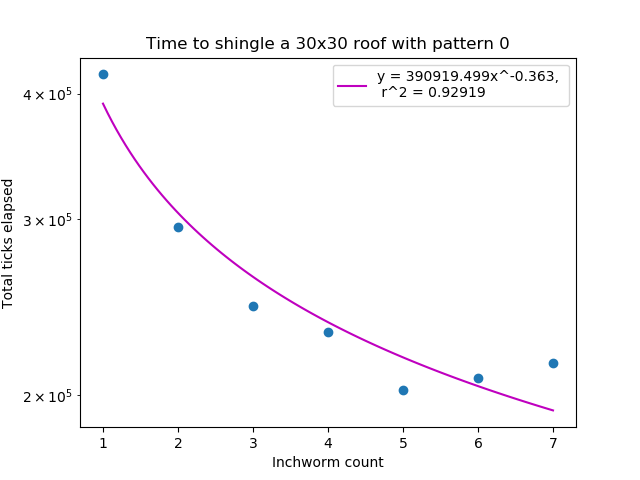
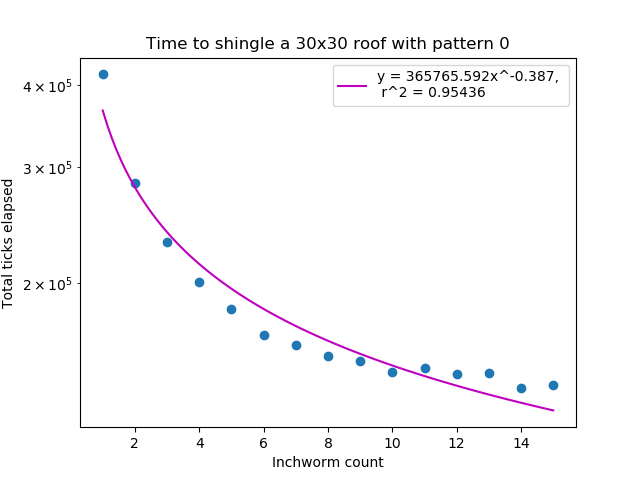
really good graphs

diff --git a/inchworm_algo/src/inchworm.py b/inchworm_algo/src/inchworm.py
@@ -429,8 +429,13 @@ class Inchworm():
 
         # update the "roof" to include shingle, if the shingle is in a place
         self.set_shingle_state(shingle_coord[0], shingle_coord[1], shingle.shingle_status) 
+        rospy.logwarn(f"inchworm {self.id} reading {shingle.most_recent_target} -------------------------------")
         if shingle.most_recent_target > self.most_recent_target:
+            rospy.logwarn(f"inchworm {self.id} found a recent target of {shingle.most_recent_target}, which is less that {self.most_recent_target}")
             self.most_recent_target = shingle.most_recent_target
+            for i in range(0, self.most_recent_target):
+                self.set_shingle_state(self.shingle_order[i][0], self.shingle_order[i][1], ShingleStatus.INSTALLED)
+            # self.rebuild_roof()
         if shingle.shingle_status == ShingleStatus.INSTALLED:
             neighbor_status = shingle.get_neighbor_locations_and_status()
             i = 0
@@ -696,13 +701,13 @@ class Inchworm():
             val = self.get_shingle_state(coord[0], coord[1])
             # rospy.loginfo(val)
             if (val != ShingleStatus.INSTALLED and i - 1 > -1 and 
-                ((self.get_shingle_state(self.shingle_order[i - 1][0], self.shingle_order[i - 1][1]) == ShingleStatus.INSTALLED) or i == self.most_recent_target)):
+                ((self.get_shingle_state(self.shingle_order[i - 1][0], self.shingle_order[i - 1][1]) == ShingleStatus.INSTALLED))):
                 rospy.loginfo(f"inchworm {self.id} has possible target {coord}")
                 if self.placed_shingle_is_valid(coord) == True:
                     x_coord = coord[0]
                     y_coord = coord[1]
-                #     if self.most_recent_target < i:
-                #         self.most_recent_target = i
+                    if self.most_recent_target < i:
+                        self.most_recent_target = i
                 # else:
                 #     self.set_shingle_state(coord[0], coord[1], ShingleStatus.INSTALLED)
                 #     self.rebuild_roof()

diff --git a/inchworm_algo/src/test_algo_sim.py b/inchworm_algo/src/test_algo_sim.py
@@ -46,7 +46,7 @@ def main():
   WIDTH = int(sys.argv[2])
   HEIGHT = int(sys.argv[3])
 
-  INCHWORM_COUNTS = [i+1 for i in range(int(WIDTH/4))]
+  INCHWORM_COUNTS = [i+1 for i in range(int(WIDTH/2))]
 
   tick_sub = rospy.Subscriber("/algo/ticks_elapsed", Int32MultiArray, tickCB)
 
@@ -60,17 +60,17 @@ def main():
 
 
   batch_size = 9
-  if int(int(WIDTH)/4) < batch_size:
-    batch_size = int(int(WIDTH)/4)
+  if int(int(WIDTH)/2) < batch_size:
+    batch_size = int(int(WIDTH)/2)
 
 
   count = 1
-  while len(durations) != int(int(WIDTH)/4) and not rospy.is_shutdown():
+  while len(durations) != int(int(WIDTH)/2) and not rospy.is_shutdown():
 
-    if running < batch_size and count <= int(int(WIDTH)/4):
+    if running < batch_size and count <= int(int(WIDTH)/2):
       print(f"Running test for inchworm count of {count}")
 
-      cli_args = [f"roof_width:={WIDTH}", f"roof_height:={HEIGHT}", f"rate:={RATE}", f"pattern:={pattern}", f"use_gui:=False", f"inchworm_count:={count}", f"name_space:={WIDTH}x{HEIGHT}_{pattern}_{count}"]
+      cli_args = [f"roof_width:={WIDTH}", f"roof_height:={HEIGHT}", f"rate:={RATE}", f"pattern:={pattern}", f"use_gui:=True", f"inchworm_count:={count}", f"name_space:={WIDTH}x{HEIGHT}_{pattern}_{count}"]
 
 
       launch_file = [(roslaunch.rlutil.resolve_launch_arguments(launch_path + cli_args)[0], cli_args)]

diff --git a/inchworm_algo/src/create_graph.py b/inchworm_algo/src/create_graph.py
@@ -96,9 +96,9 @@ plt.title(f"Time to Shingle a {WIDTH}x{HEIGHT} Roof with Pattern {pattern}")
 plt.savefig(f"{WIDTH}x{HEIGHT}_{pattern}.png")
 
 
-data_points = [0, 3, 5]
+data_points = [0, 3, 6]
 fig = go.Figure()
-for i in range(average_data.shape[0]):
+for i in data_points:
     print(average_data.columns.values.tolist()[1:])
     print(average_data.iloc[i].values.tolist()[1:])
     r_list = average_data.iloc[i].values.tolist()[1:]
@@ -123,11 +123,11 @@ fig.update_layout(
     title=f"Share of Actions Taken in Run by Average Inchworm<br><sup>On a {WIDTH}x{HEIGHT} roof with pattern {pattern}</sup>",
     
     font=dict(
-        family="Courier New, monospace",
+        family="DejaVu Sans",
         size=18
     )
     )
 fig.write_image(f"{WIDTH}x{HEIGHT}_dist.png", width=1000, height=600)
-plt.savefig(f"{WIDTH}x{HEIGHT}_time01.png")
+# plt.savefig(f"{WIDTH}x{HEIGHT}_time01.png")
 fig.show()
-plt.show()
+# plt.show()

diff --git a/inchworm_algo/src/create_graph_many_patterns.py b/inchworm_algo/src/create_graph_many_patterns.py
@@ -10,9 +10,10 @@ WIDTH = 30
 HEIGHT = 30
 pattern = 0
 
-data = []
-for i in range(3):
-    with open(f"../data/{sys.argv[1]}") as csvfile:
+
+for j in range(2):
+    data = []
+    with open(f"../data/{sys.argv[1]}{j}.csv") as csvfile:
         reader = csv.reader(csvfile, delimiter=' ')
         for row in reader:
             # print(row)
@@ -61,7 +62,7 @@ for i in range(3):
 
     print(average_data)
     plt.rcParams['font.size'] = '14'
-    plt.scatter(inchworms, move_data, label=f"Pattern {i}")
+    plt.scatter(inchworms, move_data, label=f"Pattern {j}")
 plt.xlabel("Inchworm Count")
 plt.ylabel("Estimated Hours Until Compilation")
 plt.title(f"Time to Shingle a {WIDTH}x{HEIGHT} Roof")

diff --git a/inchworm_algo/src/algo_node.py b/inchworm_algo/src/algo_node.py
@@ -53,6 +53,11 @@ def update_inchworms(roof, inchworms):
     for worm in inchworms:
         end_shingle = roof.get_shingle(0, roof.height - 1)
         if end_shingle is not None and end_shingle.shingle_status == ShingleStatus.INSTALLED:
+            for row in roof.shingle_array:
+                for shingle in row:
+                    if shingle.shingle_status != ShingleStatus.INSTALLED:
+                        rospy.logerr("roof shingling failed!!!!")
+                        rospy.signal_shutdown("roof failed to be shingled")
             is_done = True
         if worm is not None and not is_done:
             worm.run_action(roof)
